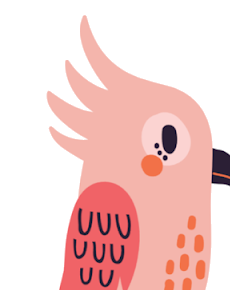
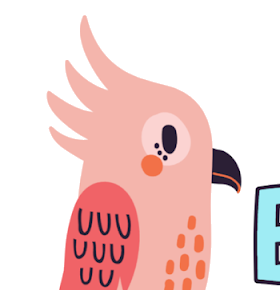
Fix bird crop: full beak visible; badge background cream

diff --git a/cotizaciones/quote.css b/cotizaciones/quote.css
@@ -610,7 +610,7 @@ h1, h2, h3, h4, h5 {
   gap: 8px;
   margin-top: 16px;
   padding: 8px 16px 8px 6px;
-  background: #fff;
+  background: #F5F0E8;
   border-radius: 999px;
   font-size: 0.65rem;
   letter-spacing: 1.5px;

diff --git a/css/style.css b/css/style.css
@@ -742,7 +742,7 @@ h1, h2, h3, h4 {
   gap: 8px;
   margin-top: 32px;
   padding: 8px 16px 8px 6px;
-  background: #fff;
+  background: #F5F0E8;
   border-radius: 999px;
   font-size: 0.65rem;
   letter-spacing: 1.5px;
